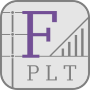
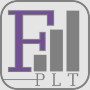
dev/ update

diff --git a/source/dev/pro.rst b/source/dev/pro.rst
@@ -2,22 +2,22 @@ Projects
 ========
 
 
-FACT - Fast/Fortran Atmospheric Model for Complex Terrain
----------------------------------------------------------
+FACT - Fortran Atmospheric Model for Complex Terrain
+----------------------------------------------------
 
 .. figure:: img/FACT_dark.png
    :align: left
 
-FACT is an intermediate complexity model for downscaling climate in complex terrain (such as mountain regions). It combines process-based and empirical modelling. For rainfall, the former uses mountain wave theory and builds on the works of Smith and Barstad (2004) and Hergarten and Robl (2022). The latter uses parameter optimisation techniques and concepts from model output statistics. The model is still in early development. It is designed to work as a module for fast post-processing of climate model output.
+FACT (Fast/Fortran Atmospheric Model for Complex Terrain) is an intermediate complexity model for downscaling climate in complex terrain (such as mountain regions). It combines process-based and empirical modelling. For rainfall, the former uses mountain wave theory and builds on the works of Smith and Barstad (2004) and Hergarten and Robl (2022). The latter uses parameter optimisation techniques and concepts from model output statistics. The model is still in early development. It is designed to work as a module for fast post-processing of climate model output.
 
 
 FPLT - Fortran Plotting Library
 -------------------------------
 
-.. figure:: img/FPLT.png
+.. figure:: img/FPLT_dark.png
    :align: left
 
-FPLT is a Fortran plotting library built mostly on GMT (Generic Mapping Tools). FPLT includes a Fortran interface for GMT (using GMT's C API). Additional features are provided through an abstraction layer that makes plotting a little easier. These features include derived types for colour maps, font management, options for different kinds of plots (e.g., maps, xy-scatter plots, raster plots), and more. It also includes procedures for automatic construction of colour maps and (the infamously cryptic) GMT argument strings from pre-defined or user-defined option sets. FPLT is currently developed further "as needed" for my research, but I hope it may become useful for other researchers as it continues to grow. However, you are very welcome to contribute (through suggestions, coding, etc.) at any stage.
+FPLT is a Fortran plotting library for producing publication-ready, high quality geographical maps, xy-plots, heat maps, animated figures, and more. It is built mostly on GMT (Generic Mapping Tools). FPLT includes a Fortran interface for GMT (using GMT's C API). Additional features, provided through an abstraction layer, include Fortran derived types for colour maps, font management, and options for specific kinds of plots. Furthermore, FPLT includes procedures for the automatic construction of colour maps and (the infamously cryptic) GMT argument strings from pre-defined or user-defined option sets. FPLT is currently developed further "as needed" for my research, but it may become useful for other researchers as it continues to grow - you are very welcome to contribute (through suggestions, coding, etc.) at any stage.
 
 
 pyESD - Empirical-Statistical Downscaling with Python

diff --git a/source/edu/uni.rst b/source/edu/uni.rst
@@ -14,9 +14,7 @@ See the complete list of degree programmes offered by the School of Geographical
 Postgraduate Taught Degrees
 ---------------------------
 
-The **"Environmental Futures: Sustainable Systems"** postgraduate taught degree programme provides multidisciplinary knowledge and expertise on the complex and challenging climate-related and environmental issues facing communities across the globe. The programme focuses on the dynamics of the Earth’s surface, atmosphere and hydrosphere, and considers their influence on processes that sustain life at a wide range of spatial and temporal scales. Sebastian Mutz and Karen Cameron both teach in the programme. (See the video below for a more personal introduction by Karen Cameron).
-
-.. youtube:: Shpfq0NWn1o
+The **"Environmental Futures: Sustainable Systems"** postgraduate taught degree programme provides multidisciplinary knowledge and expertise on the complex and challenging climate-related and environmental issues facing communities across the globe. The programme focuses on the dynamics of the Earth’s surface, atmosphere and hydrosphere, and considers their influence on processes that sustain life at a wide range of spatial and temporal scales.
 
 Sebastian Mutz is currently a convener of **"Environmental Futures: Sustainable Systems"**. For more information, you can consult the `programme website  <https://www.gla.ac.uk/postgraduate/taught/environmentalfuturessustainablesystems/>`_ or get in touch with him!
 

diff --git a/source/dev/dev.rst b/source/dev/dev.rst
@@ -7,11 +7,11 @@ Development
 Overview
 --------
 
-We develop models and educational resources with an emphasis on openness and easy-of-access. All developed products are open-source, open-access and available for free.
+We develop models and educational resources with an emphasis on openness and easy-of-access. All developed models, resources and tools are open-source, open-access and available for free (mostly MIT or cc-by licensed).
 
-The video below is a playful exploration (by S. Mutz) of landscape evolution model output (by P. Eizenhöfer), using Blender 3D for automatic texture generation and the fortran-sdl2 library for visualising and exploring 3D space.
+.. The video below is a playful exploration (by S. Mutz) of landscape evolution model output (by P. Eizenhöfer), using Blender 3D for automatic texture generation and the fortran-sdl2 library for visualising and exploring 3D space.
 
-.. youtube:: gEP8VmNYnzo
+.. .. youtube:: gEP8VmNYnzo
 
 
 
